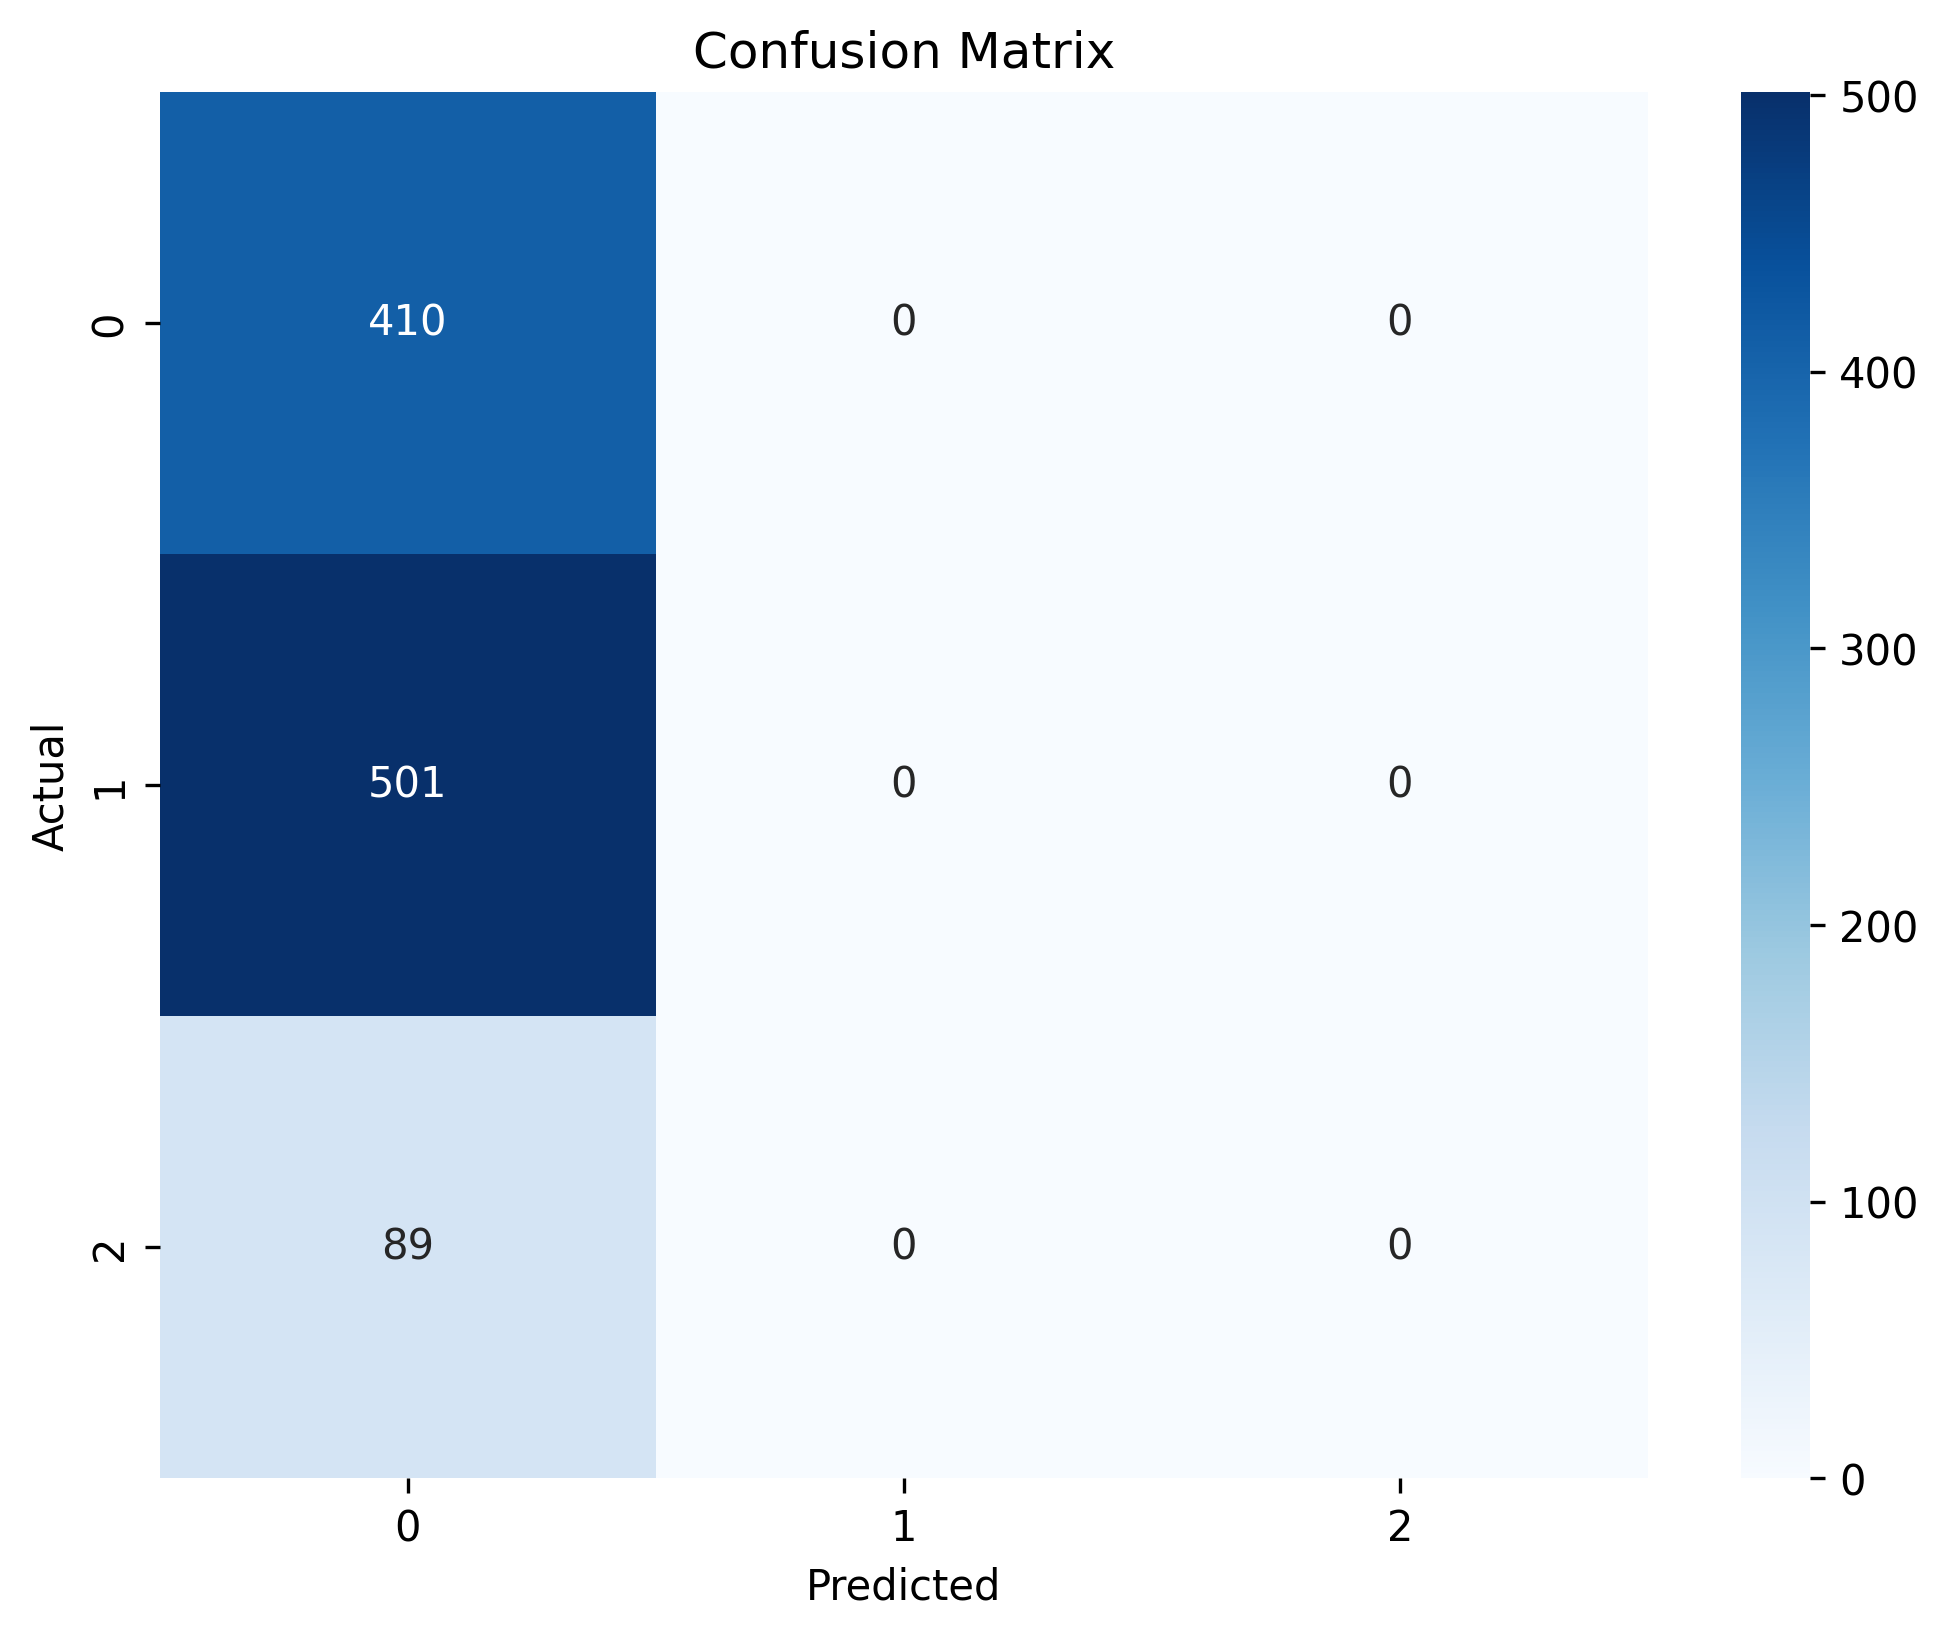
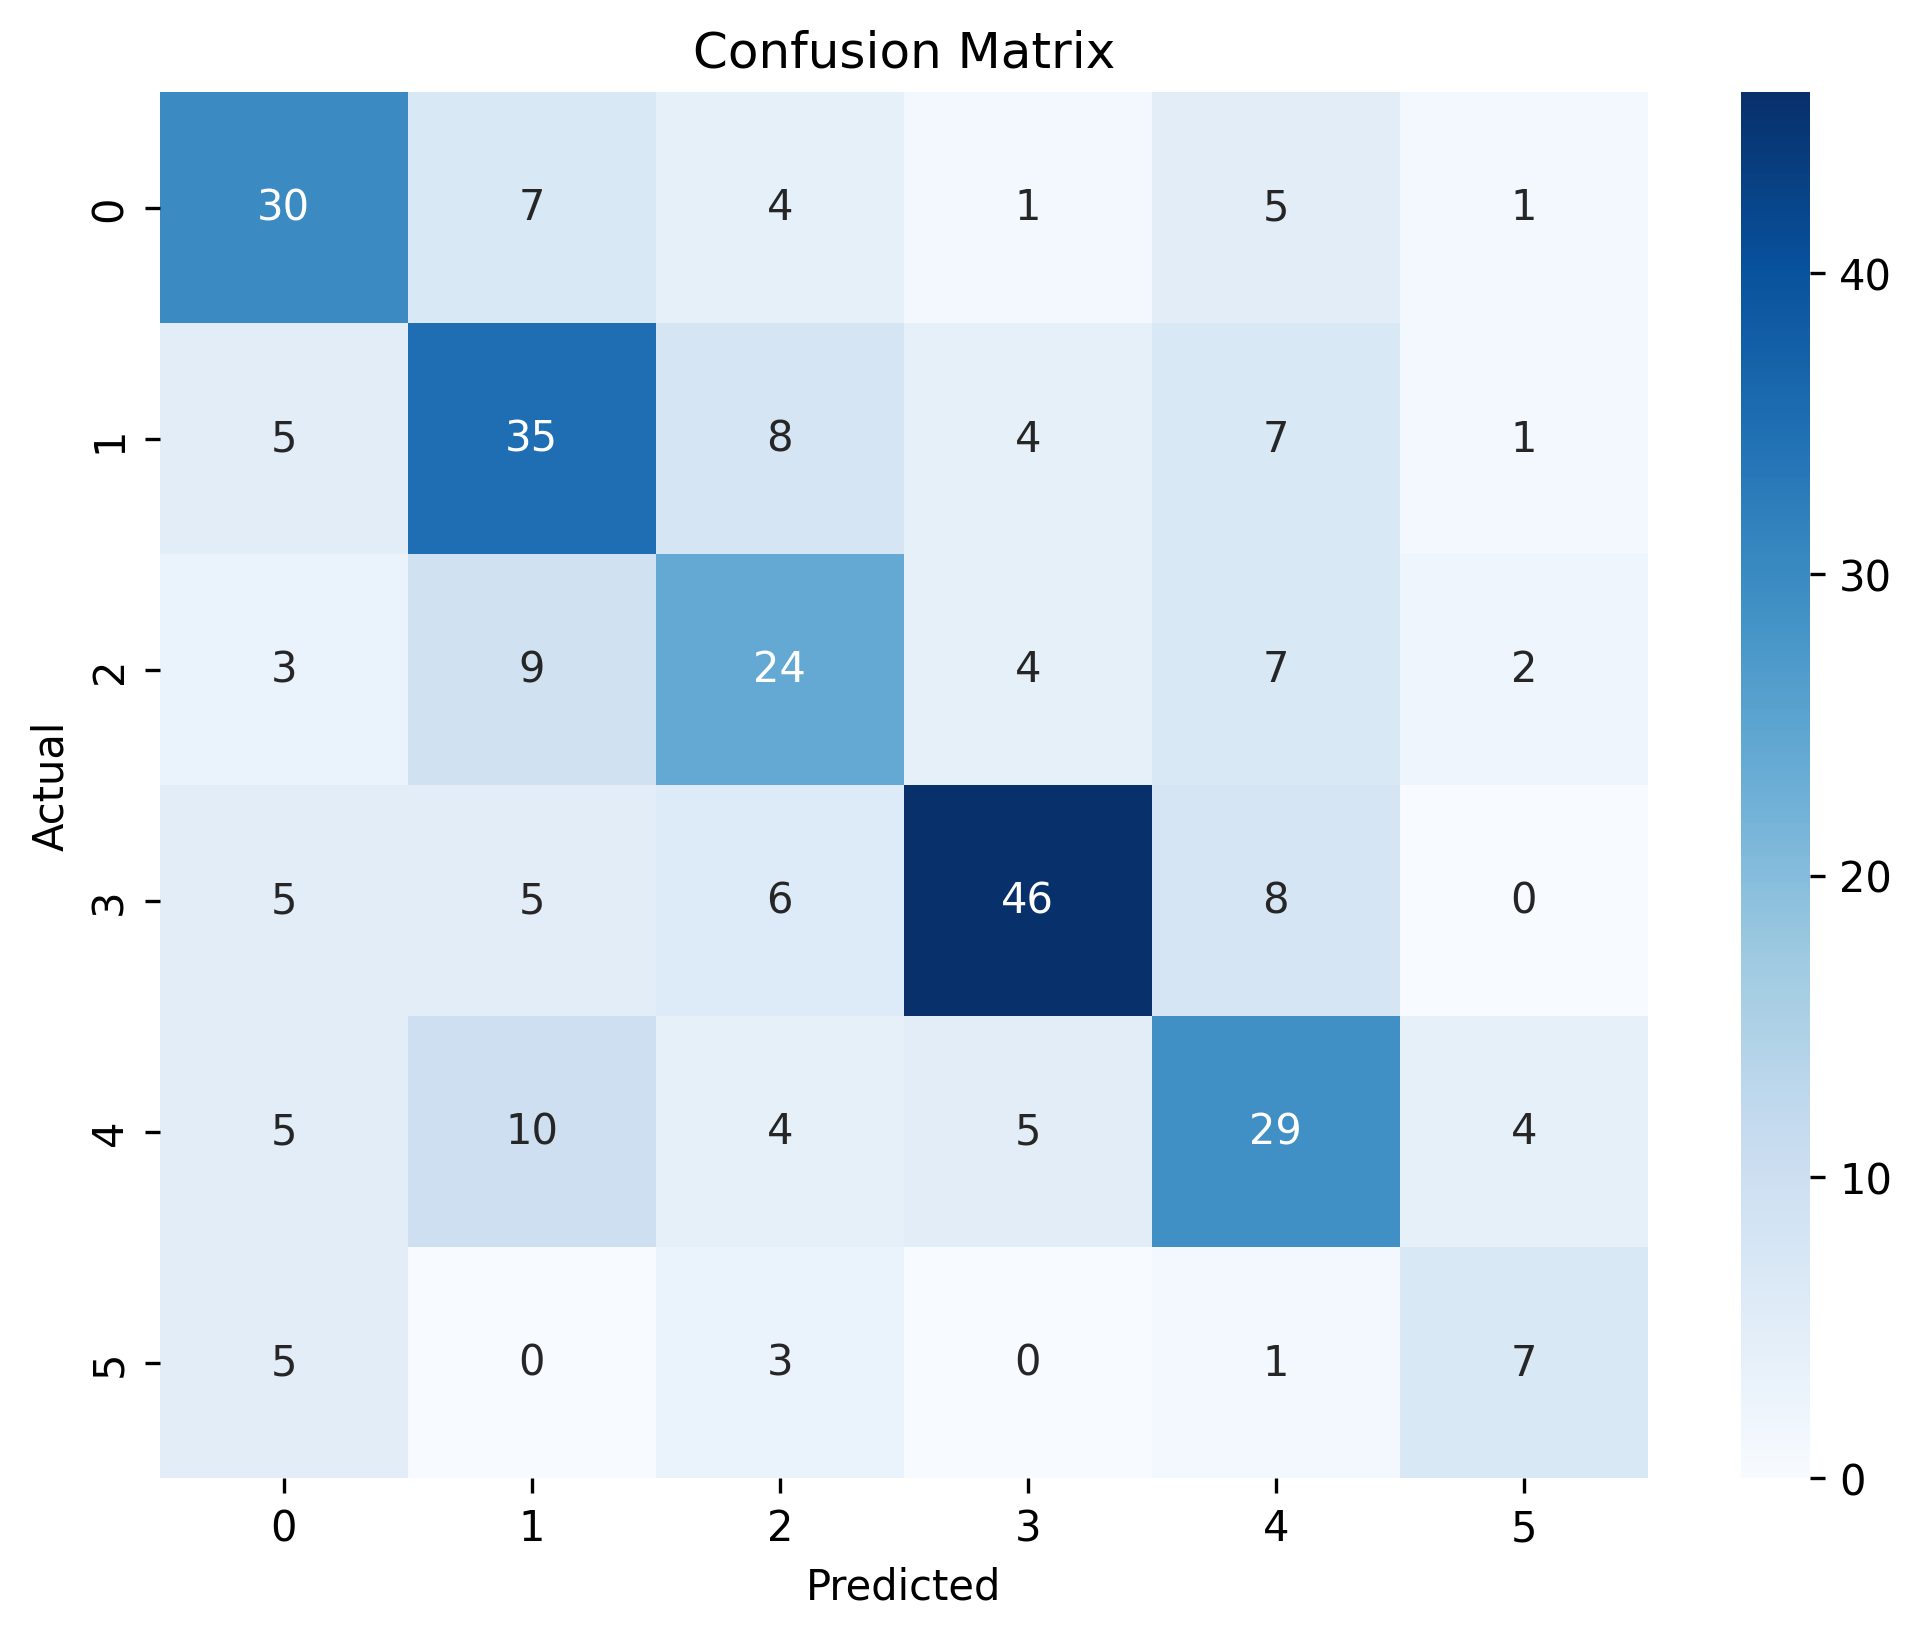
update

diff --git a/README.md b/README.md
@@ -6,13 +6,11 @@
 ![Streamlit](https://img.shields.io/badge/Streamlit-WebApp-red)
 ![Status](https://img.shields.io/badge/Status-Active-brightgreen)
 
-## Problem Statement
+## 📌 Project Overview
 
-Improper waste segregation is a major challenge in urban environments. It leads to inefficient recycling, more landfill usage, and environmental pollution. Manual sorting is labor-intensive, error-prone, and doesn't scale well as populations grow.
+This is a computer vision system that classifies waste images into categories such as plastic, paper, glass, metal, and organic waste. It uses OpenCV for image preprocessing and a Convolutional Neural Network (CNN) for classification.
 
-This project builds an intelligent image classification system using deep learning to automatically sort waste into categories like recyclable, organic, and hazardous. The goal is to support real-time waste segregation, improve recycling efficiency, and reduce environmental impact.
-
-The final solution is a trained convolutional neural network wrapped in a simple web app. Users upload an image and get an instant waste classification prediction.
+The project focuses specifically on the AI component of waste classification, and shows how that component could be integrated into a larger smart waste management system.
 
 **Objective:** Design and deploy an accurate, scalable waste classification system using deep learning for real-world environmental applications.
 
@@ -32,12 +30,6 @@ The trained model could serve as the core intelligence behind automated waste ma
 
 ### 🌱 Environmental Impact
 Better waste segregation accuracy means more efficient recycling, less landfill waste, and stronger support for sustainability efforts overall.
-
-## 📌 Project Overview
-
-This is a computer vision system that classifies waste images into categories such as plastic, paper, glass, metal, and organic waste. It uses OpenCV for image preprocessing and a Convolutional Neural Network (CNN) for classification.
-
-The project focuses specifically on the AI component of waste classification, and shows how that component could be integrated into a larger smart waste management system.
 
 ---
 
@@ -91,12 +83,12 @@ Classes:
 
 Trained on a limited dataset of 1,000 samples. Performance is expected to improve once the dataset grows to around 5,000 samples.
 
-- Accuracy: 0.4100
-- Loss: 2.1191
-- Precision: 0.1681
-- Recall: 0.4100
-- F1-score: 0.2384
-
+- Accuracy: 0.5700
+- Loss: 2.5887
+- Precision: 0.5771
+- Recall: 0.5700
+- F1-score: 0.5720
+![Confusion Matrix](figures/confusion_matrix.png)
 ---
 
 ## 📸 Demo
